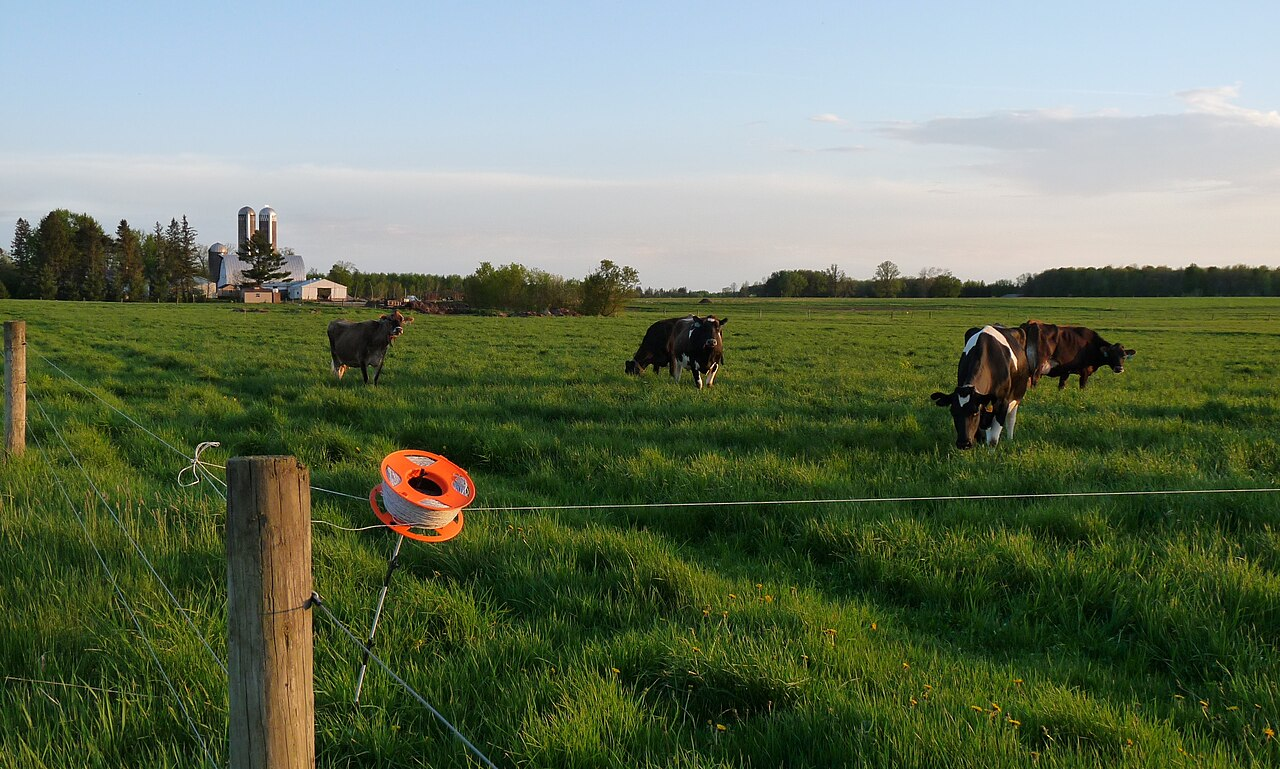
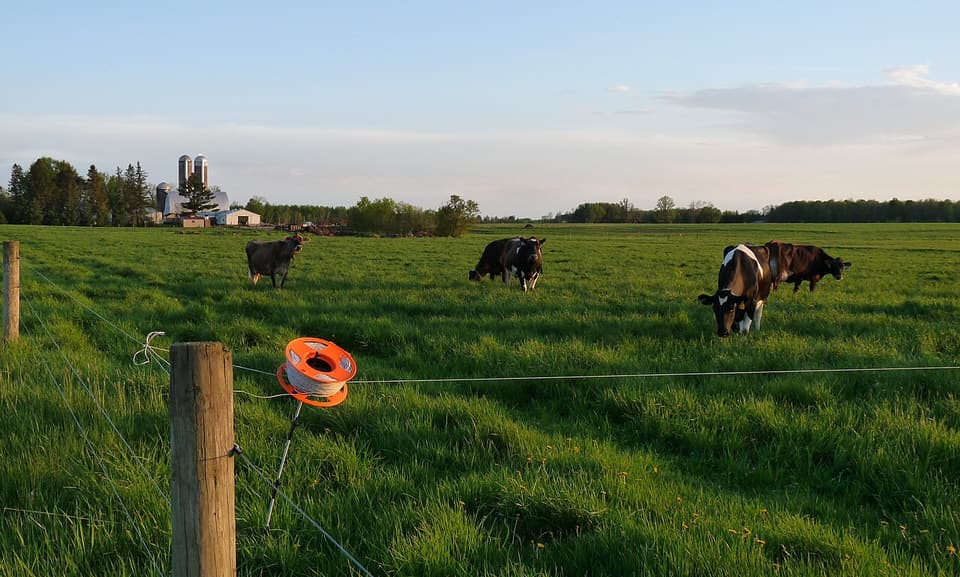
Add on-site photo credits and shrink the preview images
Licensed photographs were only credited in the README, so give them a real
page and a footer link, and re-encode the nine preview photos from 3.0 MB to
954 KB so the catalogue loads quickly on mobile data. Also add the storage
bucket migration that listing photo uploads depend on.

diff --git a/src/App.tsx b/src/App.tsx
@@ -6,7 +6,7 @@ import {
   Heart, Leaf, Menu, MessageCircle, Search, ShieldCheck, SlidersHorizontal, X
 } from 'lucide-react'
 import './App.css'
-import { cattle, districts, formatLkr, type Cattle } from './data'
+import { cattle, districts, formatLkr, photoCredits, type Cattle } from './data'
 import { getAccount, saveAccount, syncSupabaseAccount } from './auth'
 import { Dashboard } from './Dashboard'
 import { supabase } from './lib/supabase'
@@ -45,7 +45,7 @@ function Footer() {
   return <footer className="footer"><div className="container footer-grid">
     <div><Logo /><p className="footer-copy">A clearer way to find the right cattle<br />for your dairy business.</p><span className="footer-note">Made for Sri Lankan farmers</span></div>
     <div><p className="footer-heading">Explore</p><Link to="/marketplace">Browse cattle</Link><Link to="/how-it-works">How it works</Link><Link to="/about">About Pasu</Link></div>
-    <div><p className="footer-heading">For your peace of mind</p><Link to="/privacy">Privacy policy</Link><Link to="/terms">Terms & conditions</Link><a href="mailto:hello@pasu.lk">Contact us</a></div>
+    <div><p className="footer-heading">For your peace of mind</p><Link to="/privacy">Privacy policy</Link><Link to="/terms">Terms & conditions</Link><Link to="/credits">Photo credits</Link><a href="mailto:hello@pasu.lk">Contact us</a></div>
     <div className="footer-contact"><p className="footer-heading">Have a question?</p><p>We’re here on weekdays,<br />8.30am–5.30pm.</p><a href="mailto:hello@pasu.lk">hello@pasu.lk <ArrowUpRight size={14} /></a></div>
   </div><div className="container footer-bottom"><span>© 2025 Pasu Marketplace</span><span>Colombo · Sri Lanka</span></div></footer>
 }
@@ -211,6 +211,19 @@ function Auth({ register = false }: { register?: boolean }) {
   return <><Navbar /><main className="auth-page">{toast && <div className={`auth-toast ${toast.tone}`} role={toast.tone === 'error' ? 'alert' : 'status'}><span className="auth-toast-mark">{toast.tone === 'loading' ? '…' : toast.tone === 'error' ? '!' : '✓'}</span><span>{toast.message}</span></div>}<div className="auth-card"><span className="auth-icon"><CircleUserRound size={25} /></span><p className="eyebrow">{register ? 'Join Pasu' : 'Welcome back'}</p><h1>{register ? 'One account. Every possibility.' : 'Good to see you.'}</h1><p className="auth-copy">{register ? 'Create one account to buy cattle, list cattle, and manage your farm.' : 'Log in to buy cattle, list cattle, and manage everything from one workspace.'}</p>{notice && <p className="auth-notice" role="status">{notice}</p>}<div className="auth-methods"><button type="button" className={identifierType === 'email' ? 'active' : ''} onClick={() => { setIdentifierType('email'); setError(''); setNotice('') }}>Email</button><button type="button" className={identifierType === 'phone' ? 'active' : ''} onClick={() => { setIdentifierType('phone'); setError(''); setNotice('') }}>Phone number</button></div><form onSubmit={submitCredentials}>{register && <><label>Full name<input required value={fullName} onChange={e => setFullName(e.target.value)} placeholder="Your full name" /></label><label>Email address<input required type="email" value={email} onChange={e => setEmail(e.target.value)} placeholder="you@example.com" /></label><label>Phone number<input required type="tel" value={phone} onChange={e => setPhone(e.target.value)} placeholder="+94 77 123 4567" /></label><div className="auth-two-col"><label>District<input required value={district} onChange={e => setDistrict(e.target.value)} placeholder="Kandy" /></label><label>City / town<input required value={city} onChange={e => setCity(e.target.value)} placeholder="Gampola" /></label></div></>}{!register && <label>{identifierType === 'email' ? 'Email address' : 'Phone number'}<input required type={identifierType === 'email' ? 'email' : 'tel'} value={identifier} onChange={e => setIdentifier(e.target.value)} placeholder={identifierType === 'email' ? 'you@example.com' : '+94 77 123 4567'} /></label>}<label>Password<input required type="password" minLength={6} value={password} onChange={e => setPassword(e.target.value)} placeholder="At least 6 characters" /></label>{register && <label>Confirm password<input required type="password" minLength={6} value={confirmPassword} onChange={e => setConfirmPassword(e.target.value)} placeholder="Repeat your password" /></label>}<button className="button button-dark auth-submit" type="submit" disabled={submitting}>{submitting ? (register ? 'Creating account...' : 'Signing you in...') : register ? 'Create account' : 'Log in'} {!submitting && <ArrowUpRight size={16} />}</button>{error && <p className="form-error" role="alert">{error}</p>}</form><p className="auth-foot">{register ? 'Already have an account? ' : 'New to Pasu? '}<Link to={register ? '/login' : '/register'}>{register ? 'Log in' : 'Create an account'}</Link></p></div></main></>
 }
 
-function App() { return <BrowserRouter><PageTransition><Routes><Route path="/" element={<Home />} /><Route path="/marketplace" element={<Marketplace />} /><Route path="/cattle/:id" element={<Detail />} /><Route path="/login" element={<Auth />} /><Route path="/register" element={<Auth register />} /><Route path="/dashboard/*" element={<Dashboard />} /><Route path="/how-it-works" element={<HowItWorks />} /><Route path="/about" element={<About />} /><Route path="/contact" element={<Contact />} /><Route path="/privacy" element={<SimplePage title={<>Your privacy,<br /><em>kept simple.</em></>} />} /><Route path="/terms" element={<SimplePage title={<>Clear terms for<br /><em>clear decisions.</em></>} />} /><Route path="*" element={<SimplePage title="Page not found" />} /></Routes></PageTransition></BrowserRouter> }
+function Credits() {
+  return <SimplePage title={<>Photo credits,<br /><em>given properly.</em></>}>
+    <p className="body-copy credits-intro">The preview listings use freely licensed photographs from Wikimedia Commons, lightened for faster loading. They illustrate the sample listings and are not photos of the animals described. Each photograph remains the work of its photographer and is used under the licence shown.</p>
+    <div className="credits-list">
+      {photoCredits.map(item => <article className="credit-row" key={item.file}>
+        <img src={item.file} alt="" loading="lazy" decoding="async" />
+        <div><b>{item.photographer}</b><span>{item.licence}</span><a href={item.source} target="_blank" rel="noreferrer">View original <ArrowUpRight size={13} /></a></div>
+      </article>)}
+    </div>
+    <p className="body-copy">Cattle listed by real sellers are photographed by the seller, and those images stay with the listing. Questions about an image? Write to <a className="text-link" href="mailto:hello@pasu.lk">hello@pasu.lk</a>.</p>
+  </SimplePage>
+}
+
+function App() { return <BrowserRouter><PageTransition><Routes><Route path="/" element={<Home />} /><Route path="/marketplace" element={<Marketplace />} /><Route path="/cattle/:id" element={<Detail />} /><Route path="/login" element={<Auth />} /><Route path="/register" element={<Auth register />} /><Route path="/dashboard/*" element={<Dashboard />} /><Route path="/how-it-works" element={<HowItWorks />} /><Route path="/about" element={<About />} /><Route path="/contact" element={<Contact />} /><Route path="/credits" element={<Credits />} /><Route path="/privacy" element={<SimplePage title={<>Your privacy,<br /><em>kept simple.</em></>} />} /><Route path="/terms" element={<SimplePage title={<>Clear terms for<br /><em>clear decisions.</em></>} />} /><Route path="*" element={<SimplePage title="Page not found" />} /></Routes></PageTransition></BrowserRouter> }
 
 export default App

diff --git a/src/data.ts b/src/data.ts
@@ -183,6 +183,22 @@ export const cattle: Cattle[] = [
   },
 ]
 
+export type PhotoCredit = { file: string; photographer: string; licence: string; source: string }
+
+// Photographs used by the preview catalogue. They illustrate the sample listings
+// and are not photos of the animals described.
+export const photoCredits: PhotoCredit[] = [
+  { file: '/cattle/jersey-close.jpg', photographer: 'ITookSomePhotos', licence: 'CC BY-SA 4.0', source: 'https://commons.wikimedia.org/wiki/File:Friendly_Jersey_cow,_near_Brighstone,_Isle_of_Wight,_England.jpg' },
+  { file: '/cattle/jersey-herd.jpg', photographer: 'BartLaridon', licence: 'CC BY-SA 4.0', source: 'https://commons.wikimedia.org/wiki/File:A_group_of_Jersey_cows.JPG' },
+  { file: '/cattle/jersey-barn.jpg', photographer: 'Jennifer Dickert', licence: 'CC BY 2.0', source: 'https://commons.wikimedia.org/wiki/File:Cute_Jersey_Cow.jpg' },
+  { file: '/cattle/jersey-profile.jpg', photographer: 'Missvain', licence: 'CC BY 4.0', source: 'https://commons.wikimedia.org/wiki/File:2024_Sonoma-Marin_Fair_-_Sarah_Stierch_09.jpg' },
+  { file: '/cattle/ayrshire-profile.jpg', photographer: 'Sergei S. Scurfield', licence: 'CC BY-SA 3.0', source: 'https://commons.wikimedia.org/wiki/File:Ayrshire_cattle.JPG' },
+  { file: '/cattle/friesian-field.jpg', photographer: 'Jeff the quiet', licence: 'CC0', source: 'https://commons.wikimedia.org/wiki/File:Hixon_Wisconsin_cows.jpg' },
+  { file: '/cattle/local-brown.jpg', photographer: 'Ebaran', licence: 'CC BY-SA 3.0', source: 'https://commons.wikimedia.org/wiki/File:Domestic_cattle_breed_-_Sri_Lanka.jpg' },
+  { file: '/cattle/local-red.jpg', photographer: 'Ushani Thennakoon', licence: 'CC BY-SA 4.0', source: 'https://commons.wikimedia.org/wiki/File:Sri_Lankan_Cattle.jpg' },
+  { file: '/cattle/sahiwal-red.jpg', photographer: 'Pavanaja', licence: 'CC BY-SA 3.0', source: 'https://commons.wikimedia.org/wiki/File:Sahiwala_01.JPG' },
+]
+
 export function formatLkr(value: number) {
   return new Intl.NumberFormat('en-LK', { style: 'currency', currency: 'LKR', maximumFractionDigits: 0 }).format(value).replace('LKR', 'LKR ')
 }

diff --git a/src/App.css b/src/App.css
@@ -723,3 +723,15 @@ select { cursor:pointer }
   .nav-links.is-open { animation:none }
   .text-link:hover svg, .district-list a:hover svg { transform:none }
 }
+
+/* Photo credits page */
+.credits-intro { max-width:64ch }
+.credits-list { display:grid; grid-template-columns:repeat(3, minmax(0,1fr)); gap:16px; margin:26px 0 34px }
+.credit-row { display:flex; align-items:center; gap:12px; padding:10px; border:1px solid var(--line); background:#fff; box-shadow:0 1px 2px rgba(23,35,29,.05) }
+.credit-row img { width:72px; height:56px; object-fit:cover; background:var(--cream); flex:none }
+.credit-row b { display:block; font-size:.92rem; line-height:1.3 }
+.credit-row span { display:block; color:var(--muted); font-size:.78rem; margin-top:2px }
+.credit-row a { display:inline-flex; align-items:center; gap:4px; font-size:.78rem; color:var(--forest); border-bottom:1px solid var(--line); margin-top:6px; transition:border-color .2s }
+.credit-row a:hover { border-color:var(--clay) }
+@media(max-width:900px) { .credits-list { grid-template-columns:repeat(2, minmax(0,1fr)) } }
+@media(max-width:620px) { .credits-list { grid-template-columns:1fr } }

diff --git a/README.md b/README.md
@@ -16,7 +16,7 @@ Without credentials, the application uses the preview catalog and a local accoun
 
 1. Create a Supabase project.
 2. Copy the project URL and publishable anon key into `.env.local`.
-3. Run `supabase/migrations/202511090001_initial_schema.sql` in the Supabase SQL editor or with the Supabase CLI.
+3. Apply every file in `supabase/migrations/` in filename order, either with `supabase db push` after `supabase link` or by pasting them into the Supabase SQL editor one at a time. `202611100001_storage_bucket.sql` creates the public `cattle-images` bucket and its owner-scoped upload policies.
 4. Enable Email and Phone providers in Authentication → Providers. Registration creates the account and returns the user to the login page; returning users sign in with email/password or verified phone/password. Enable email confirmation if you want users to verify their email before the first login. Every registered account can both buy and sell; administrator accounts must be assigned securely by an owner.
 5. Apply `202511090003_unified_user_accounts.sql` after the earlier migrations. It normalizes ordinary accounts to the `user` role, stores registration profile fields, and enforces profile completion before listing creation through RLS.
 6. Apply `202611090001_realtime_messaging.sql`. Enable Realtime for `messages`, `user_presence`, and `message_read_receipts`, and deploy `supabase/functions/process-unanswered-messages`. Set `AI_MODEL_URL` and `AI_MODEL_API_KEY` as Edge Function secrets; never put the key in Vite environment variables.
@@ -27,7 +27,6 @@ Without credentials, the application uses the preview catalog and a local accoun
 Approved listings open a private conversation inside the dashboard. Messages, image attachments, read receipts, typing indicators, presence, block/report actions, and unread notifications are protected by participant-only RLS policies.
 
 Schedule the `process-unanswered-messages` Edge Function from a trusted server-side scheduler (for example, Supabase Cron invoking the function every minute). The function checks each recipient's configured timeout, availability, and AI settings before it writes an idempotent, clearly labelled AI message. Configure `ai_assistant_enabled` and `ai_auto_reply_enabled` from the dashboard; human takeover disables both settings.
-5. Create a public `cattle-images` storage bucket, then add storage policies matching the listing ownership policies in the migration.
 
 The migration enables RLS on every protected table, creates the profile-on-signup trigger, prevents users from changing their role, and only exposes approved listings publicly. The service-role key must never be placed in frontend environment variables.
 
